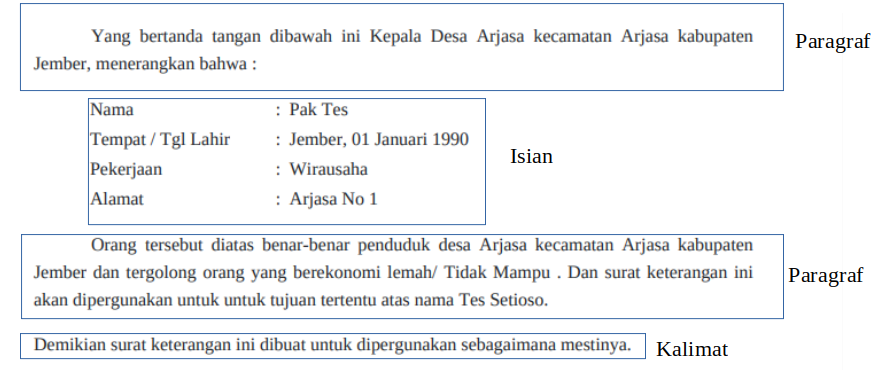
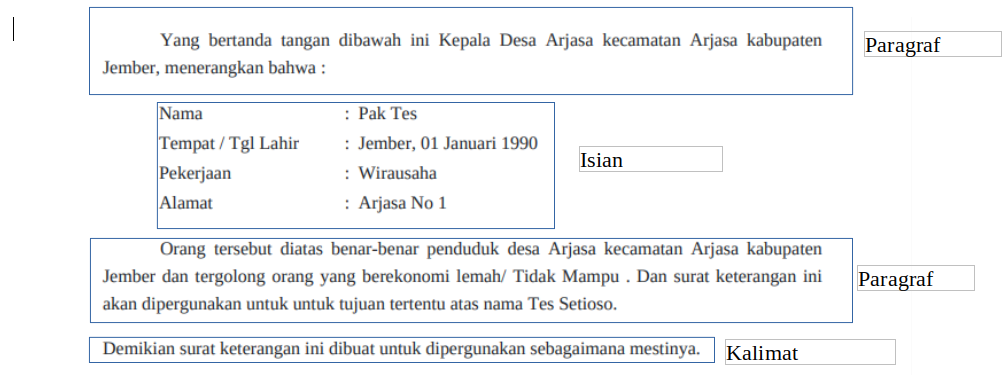
fixing cetak surat, bantuan

diff --git a/resources/views/surat/show.blade.php b/resources/views/surat/show.blade.php
@@ -77,46 +77,39 @@
         @endphp
 
         @foreach ($surat->isiSurat->where('perihal', 0) as $key => $isiSurat)
-            @if ($isiSurat->paragraf == 1)
-                @php
-                    $string = $isiSurat->isi;
-                    $pattern = "/\{[A-Za-z\s\(\)]+\}/";
-                    preg_match_all($pattern, $string, $matches);
-                    $x = count($surat->isiSurat->where('isian', 1));
-                    $hasil = $string;
-                @endphp
-                @foreach ($matches[0] as $k => $value)
-                    @php
-                        $hasil = str_replace($value, $request->isian[$x], $hasil);
-                        $x++;
-                    @endphp
-                @endforeach
-                @php
-                    try {
-                        if ($surat->isiSurat[$key + 1]->isian == 1) {
-                            echo '<div class="text-justify" style="text-indent: 50px">'. $hasil .'</div>';
-                        } else {
-                            echo '<p class="text-justify" style="text-indent: 50px">'. $hasil .'</p>';
-                        }
-                    } catch (\Throwable $th) {
-                        echo '<p class="text-justify" style="text-indent: 50px">'. $hasil .'</p>';
-                    }
-                @endphp
-            @endif
+            @php
+                $string = $isiSurat->isi;
+                $pattern = "/\{[0-9A-Za-z\s\(\)]+\}/";
+                preg_match_all($pattern, $string, $matches);
+                $hasil = $string;
 
-            @if ($isiSurat->kalimat == 1)
-                @php
-                    try {
-                        if ($surat->isiSurat[$key + 1]->isian == 1 || $data_kades == true && $surat->data_kades == 1) {
-                            echo '<div>'. $isiSurat->isi .'</div>';
-                        } else {
-                            echo '<p>'. $isiSurat->isi .'</p>';
+                foreach ($matches[0] as $k => $value) {
+                    $hasil = str_replace($value, $request->isian[$i], $hasil);
+                    $i++;
+                }
+
+                try {
+                    if ($surat->isiSurat[$key + 1]->isian == 1 || $data_kades == true && $surat->data_kades == 1) {
+                        if ($isiSurat->paragraf == 1) {
+                            echo '<div class="text-justify" style="text-indent: 50px">'. $hasil .'</div>';
+                        } elseif ($isiSurat->kalimat == 1) {
+                            echo '<div class="text-justify">'. $hasil .'</div>';
                         }
-                    } catch (\Throwable $th) {
-                        echo '<p>'. $isiSurat->isi .'</p>';
+                    } else {
+                        if ($isiSurat->paragraf == 1) {
+                            echo '<p class="text-justify" style="text-indent: 50px">'. $hasil .'</p>';
+                        } elseif ($isiSurat->kalimat == 1) {
+                            echo '<p class="text-justify">'. $hasil .'</p>';
+                        }
                     }
-                @endphp
-            @endif
+                } catch (\Throwable $th) {
+                    if ($isiSurat->paragraf == 1) {
+                        echo '<p class="text-justify" style="text-indent: 50px">'. $hasil .'</p>';
+                    } elseif ($isiSurat->kalimat == 1) {
+                        echo '<p class="text-justify">'. $hasil .'</p>';
+                    }
+                }
+            @endphp
 
             @if ($data_kades && $surat->data_kades == 1)
                 <table class="mb-3 ml-5">

diff --git a/resources/views/surat/edit.blade.php b/resources/views/surat/edit.blade.php
@@ -920,7 +920,7 @@
                             @endif
                             @if ($isiSurat->kalimat == 1)
                                 <div class="form-group">
-                                    <label class="form-control-label">Kalimat</label>
+                                    <label class="form-control-label">Kalimat</label> <a href="{{ url('img/bantuan-kalimat.png') }}" data-fancybox><i class="fas fa-question-circle text-blue" title="Bantuan" data-toggle="tooltip"></i></a>
                                     <div class="input-group input-group-alternative mb-3">
                                         <div class="input-group-prepend">
                                             <div class="input-group-text">
@@ -1054,7 +1054,7 @@
         $("#kalimat").click(function(){
             $("#isian").append(`
                 <div class="form-group">
-                    <label class="form-control-label">Kalimat</label>
+                    <label class="form-control-label">Kalimat</label> <a href="{{ url('img/bantuan-kalimat.png') }}" data-fancybox><i class="fas fa-question-circle text-blue" title="Bantuan" data-toggle="tooltip"></i></a>
                     <div class="input-group input-group-alternative mb-3">
                         <div class="input-group-prepend">
                             <div class="input-group-text">

diff --git a/resources/views/surat/create.blade.php b/resources/views/surat/create.blade.php
@@ -969,7 +969,7 @@
         $("#kalimat").click(function(){
             $("#isian").append(`
                 <div class="form-group">
-                    <label class="form-control-label">Kalimat</label>
+                    <label class="form-control-label">Kalimat</label> <a href="{{ url('img/bantuan-kalimat.png') }}" data-fancybox><i class="fas fa-question-circle text-blue" title="Bantuan" data-toggle="tooltip"></i></a>
                     <div class="input-group input-group-alternative mb-3">
                         <div class="input-group-prepend">
                             <div class="input-group-text">
